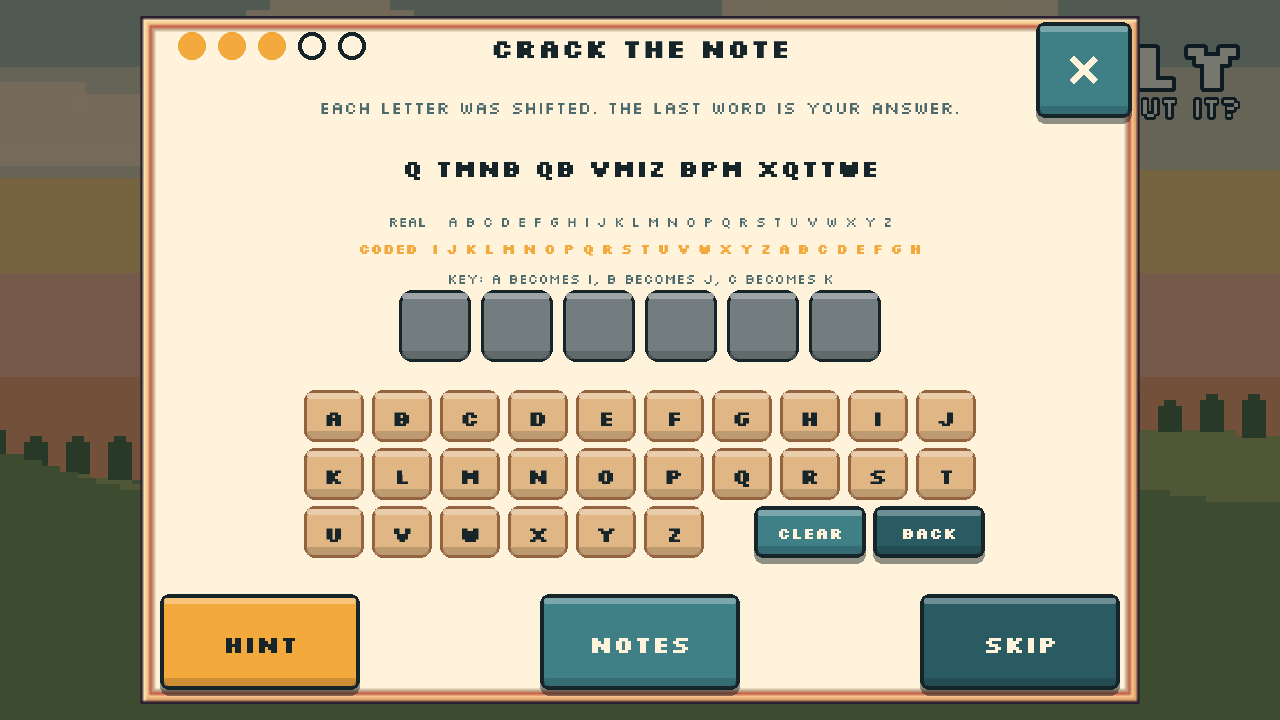
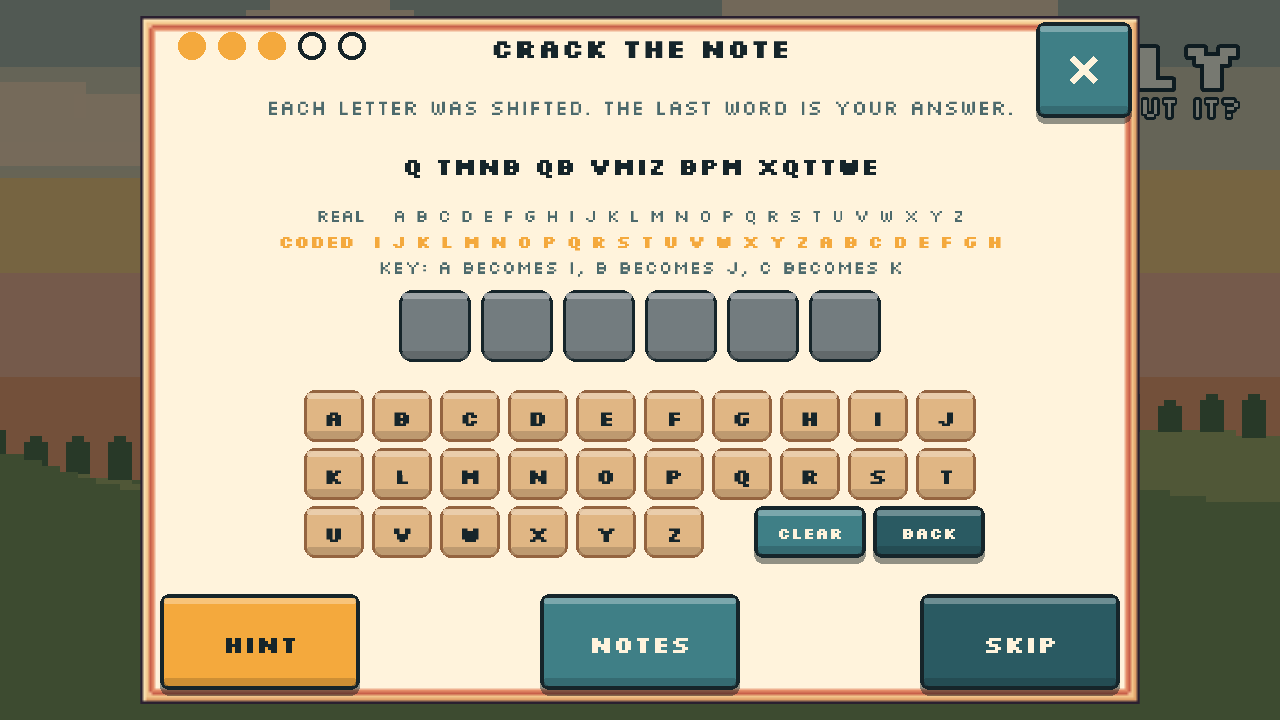
AI-7: Word cipher key readable (18 px) and clear of the slots

diff --git a/src/puzzles/WordScene.ts b/src/puzzles/WordScene.ts
@@ -48,7 +48,7 @@ export class WordScene extends PuzzleShell {
     this.word = this.spec.word;
     const cx = PX + PW / 2;
     const hint = this.spec.hint;
-    makeText(this, cx, PY + 90, hint, 22, PAL.inkSoft, { ox: 0.5, oy: 0.5, align: 'center', wrap: PW - 160 });
+    makeText(this, cx, PY + 90, hint, 26, PAL.inkSoft, { ox: 0.5, oy: 0.5, align: 'center', wrap: PW - 160 });
     this.gSlots = this.add.graphics();
     this.gPool = this.add.graphics();
     let slotY = PY + 230;
@@ -76,12 +76,12 @@ export class WordScene extends PuzzleShell {
 
   private buildNote(cx: number): void {
     const shift = this.spec.shift;
-    makeText(this, cx, PY + 150, this.spec.coded, 30, PAL.ink, { mono: true, bold: true, ox: 0.5, oy: 0.5, align: 'center', wrap: PW - 120 });
+    makeText(this, cx, PY + 148, this.spec.coded, 30, PAL.ink, { mono: true, bold: true, ox: 0.5, oy: 0.5, align: 'center', wrap: PW - 120 });
     const plain = ALPHA.split('').join(' ');
     const coded = caesar(ALPHA, shift).split('').join(' ');
-    makeText(this, cx, PY + 205, `Real   ${plain}`, 17, PAL.inkSoft, { mono: true, ox: 0.5, oy: 0.5 });
-    makeText(this, cx, PY + 232, `Coded  ${coded}`, 17, PAL.terracotta, { mono: true, bold: true, ox: 0.5, oy: 0.5 });
-    makeText(this, cx, PY + 262, `Key: A becomes ${caesar('A', shift)}, B becomes ${caesar('B', shift)}, C becomes ${caesar('C', shift)}`, 18, PAL.inkSoft, { ox: 0.5, oy: 0.5 });
+    makeText(this, cx, PY + 198, `Real   ${plain}`, 22, PAL.inkSoft, { mono: true, ox: 0.5, oy: 0.5 });
+    makeText(this, cx, PY + 224, `Coded  ${coded}`, 22, PAL.terracotta, { mono: true, bold: true, ox: 0.5, oy: 0.5 });
+    makeText(this, cx, PY + 250, `Key: A becomes ${caesar('A', shift)}, B becomes ${caesar('B', shift)}, C becomes ${caesar('C', shift)}`, 24, PAL.inkSoft, { ox: 0.5, oy: 0.5 });
   }
 
   private buildSlots(cx: number, cy: number): void {

diff --git a/docs/status/AI-7.md b/docs/status/AI-7.md
@@ -25,7 +25,7 @@
 
 ## Honest notes
 - Code and Sort have no harder variant above level 3 (Sort level 4-5 repeats the 'combo' mode). AI-2 owns that logic; I did not invent any.
-- Seen on screen: the cream wooden panel, pixel font, Hint/Notes/Skip row inside the panel and the close button are consistent across all 11, nothing overlaps at 1280x720. Weakest: Word key legend (tiny), Slide and Memory grids small and off-centre, Mastermind history box empty and blank, close X sticks out of the panel corner,.
+- Seen on screen: the cream wooden panel, pixel font, Hint/Notes/Skip row inside the panel and the close button are consistent across all 11, nothing overlaps at 1280x720. Word cipher key enlarged (13 -> 18 px) and spaced clear of the slots. Weakest: Slide and Memory grids small and off-centre, Mastermind history box empty and blank, close X sticks out of the panel corner,.
 - Text is still small: `makeText` in `src/puzzles/ui.ts` scales every size by 0.8, so body text is 14-27 px, below the 28 px target. Fixing it means re-fitting each scene's layout.
 
 ## Requests
